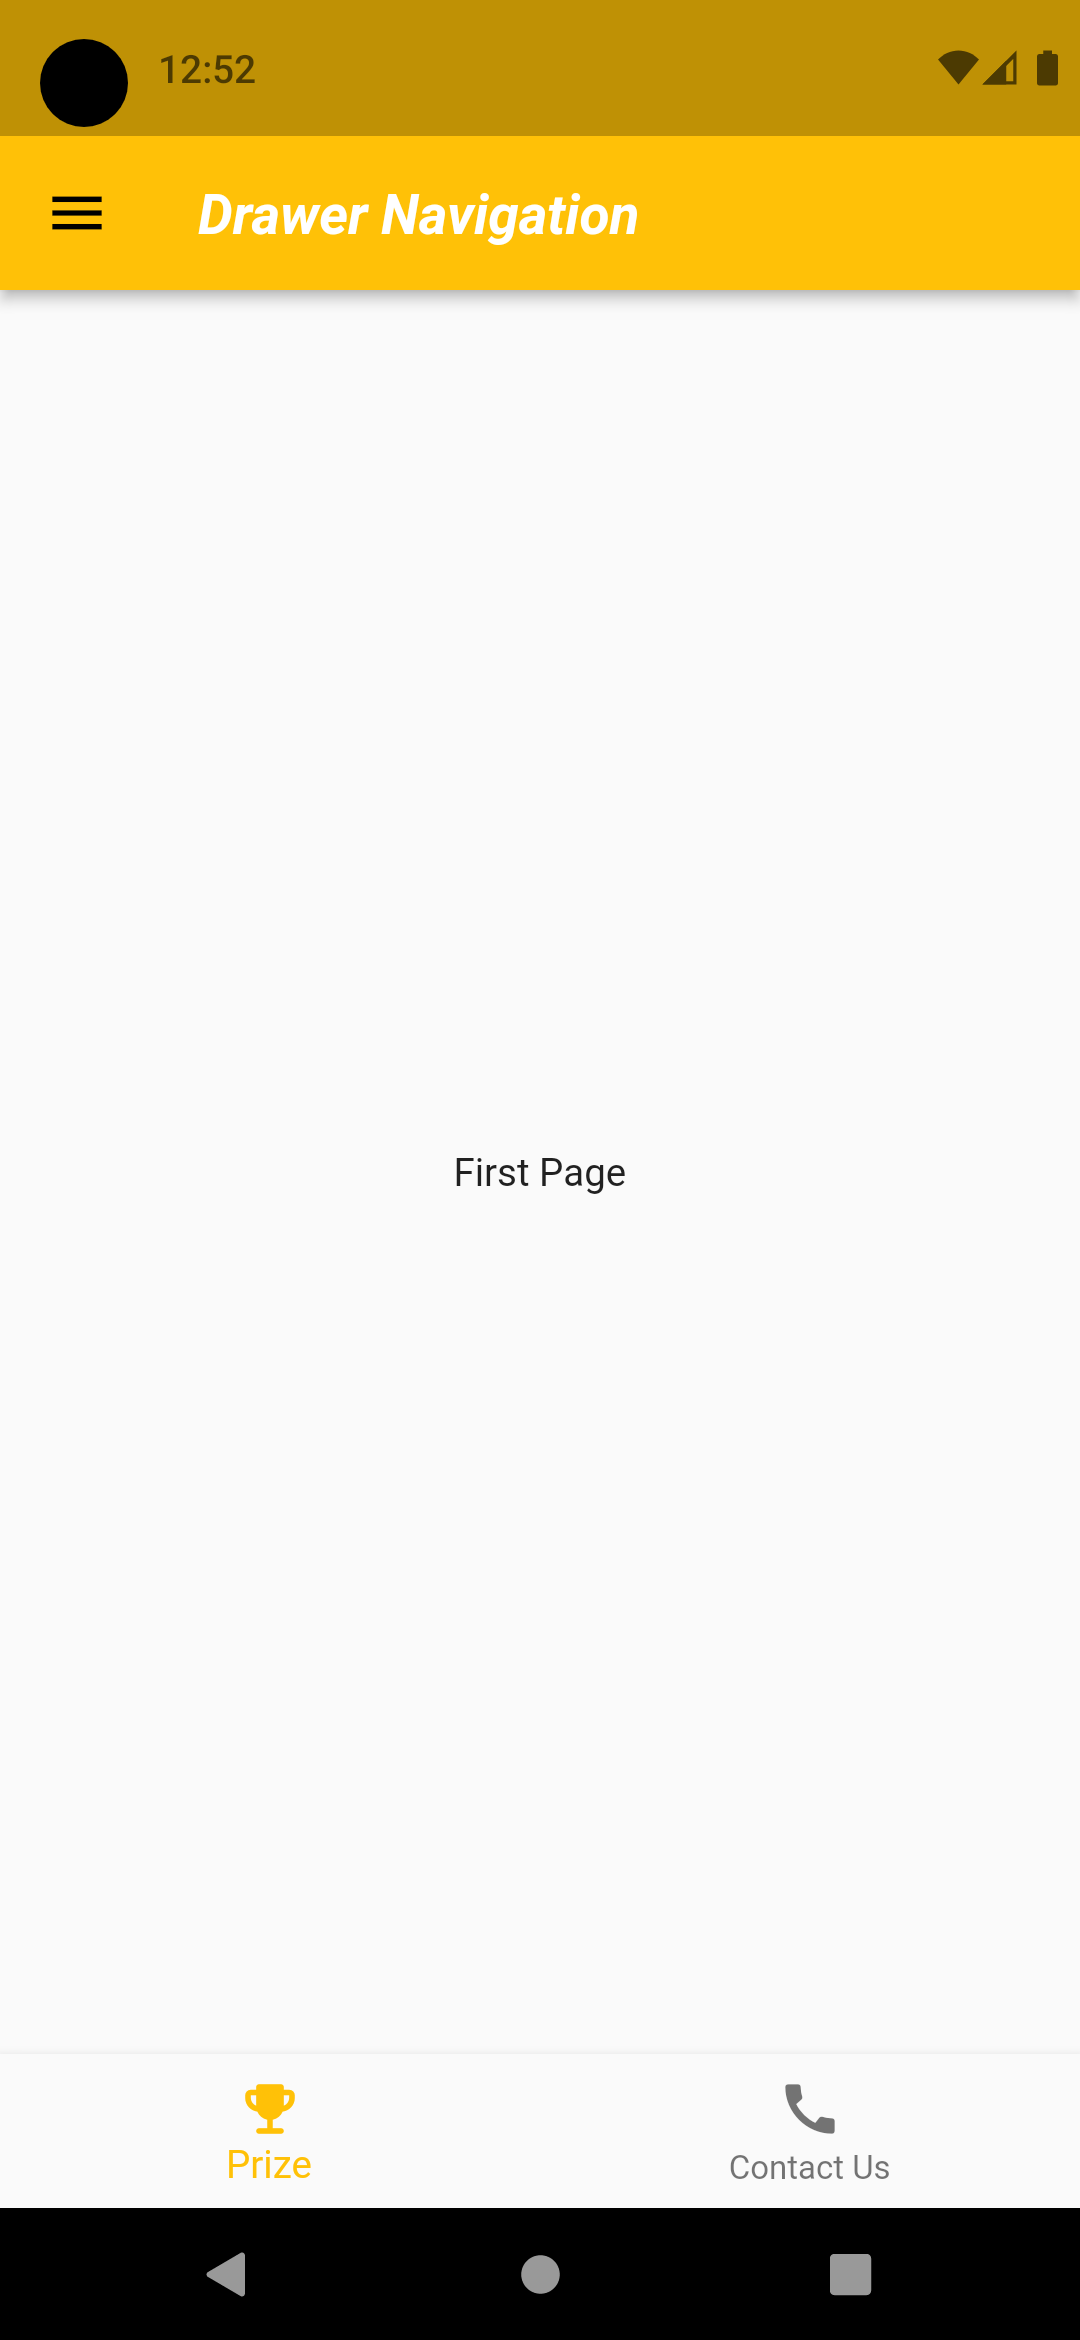
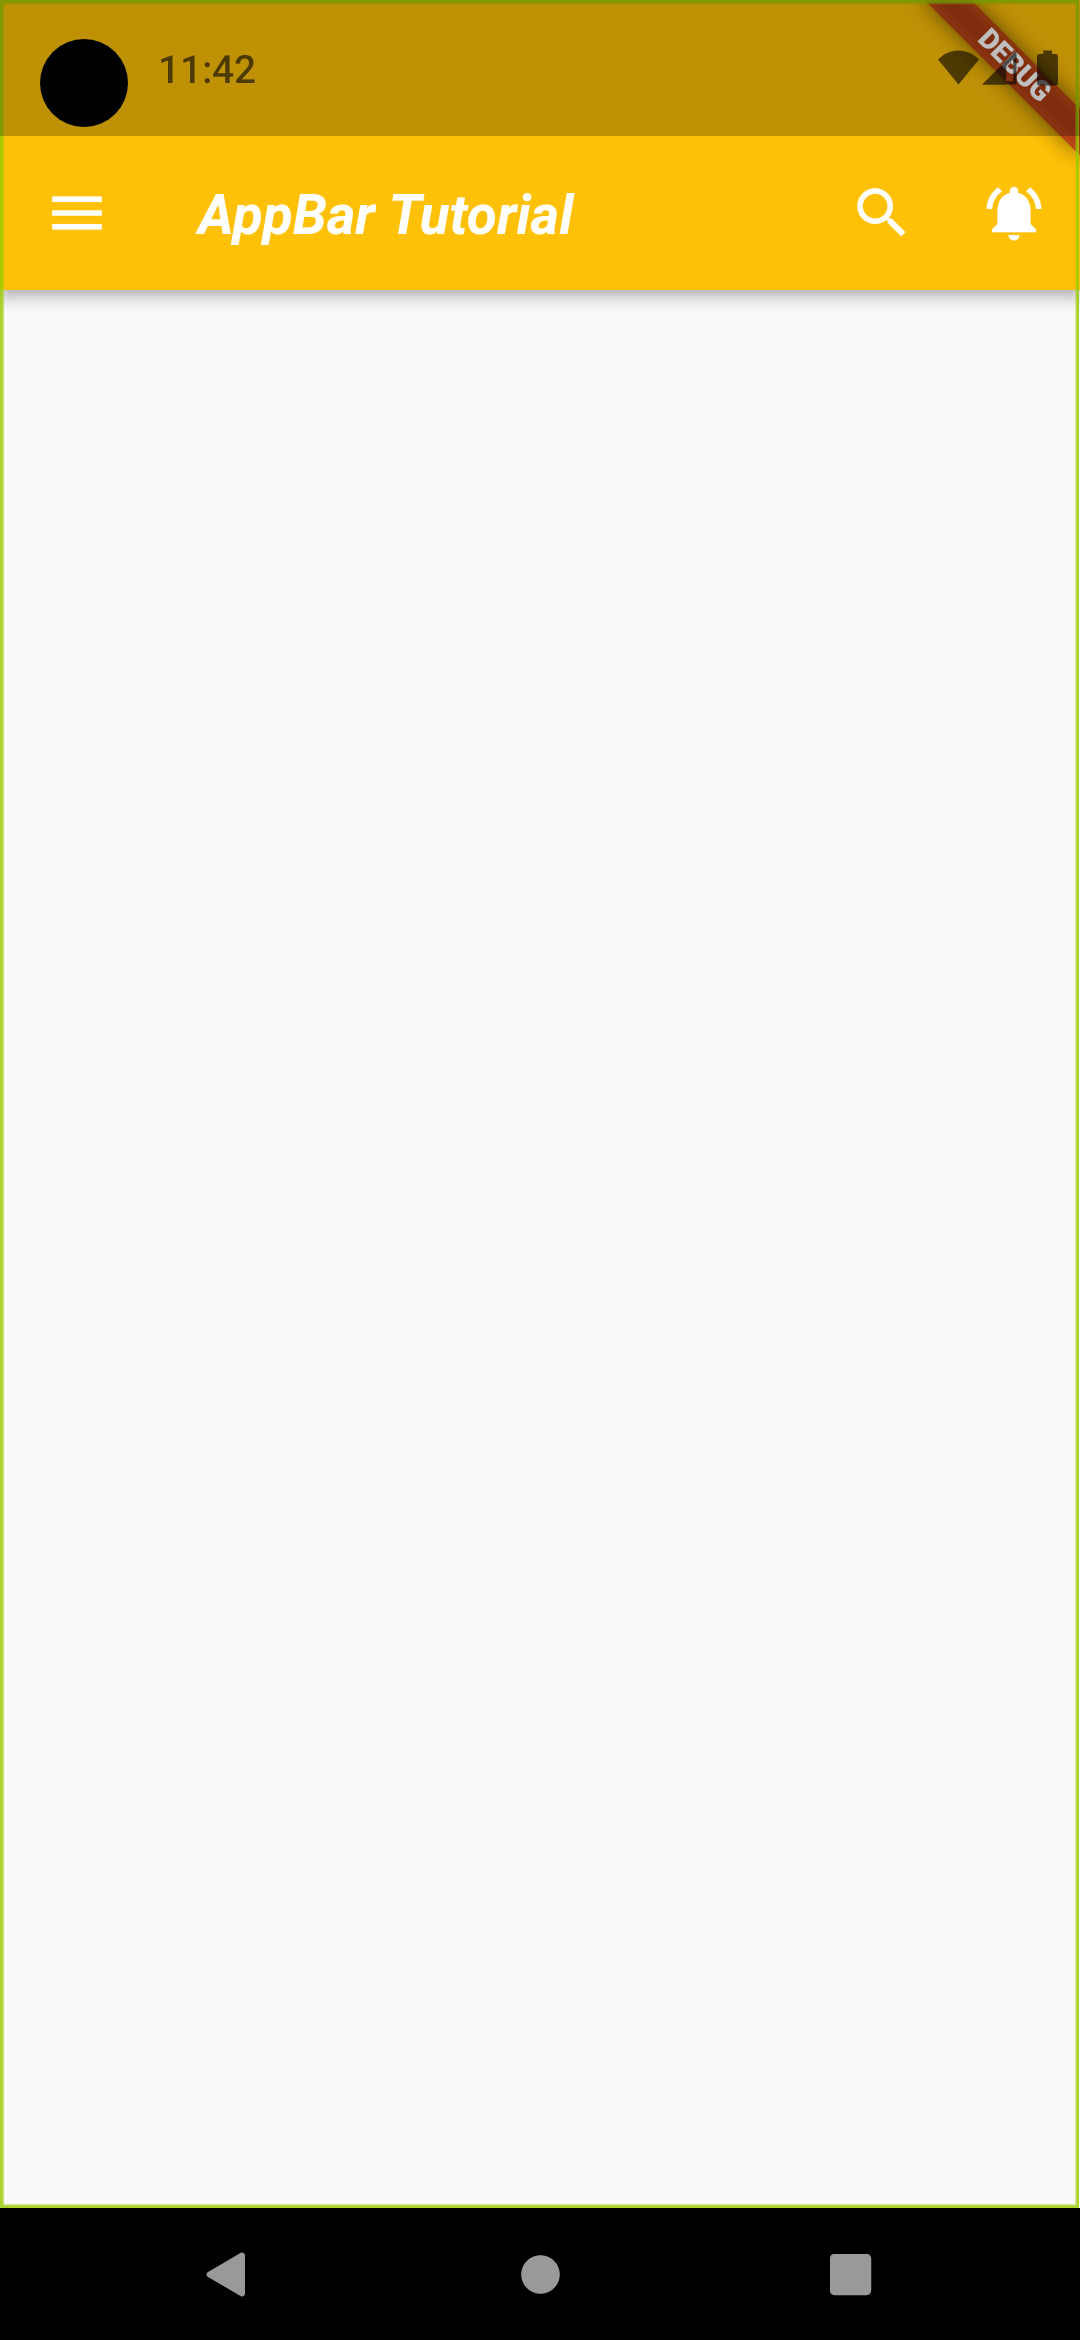
AppBar Functions

diff --git a/lib/main.dart b/lib/main.dart
@@ -1,52 +1,42 @@
 import 'package:flutter/material.dart';
-import 'package:flutter_dev_practice/screens/bottom_navBar.dart';
-import 'package:flutter_dev_practice/screens/create_drawer.dart';
-import 'package:flutter_dev_practice/screens/sample_pages.dart';
 
 void main() {
   runApp(
-    MainApp(),
+    HomeScreen(),
   );
 }
 
-class MainApp extends StatelessWidget {
+class HomeScreen extends StatelessWidget {
   @override
   Widget build(BuildContext context) {
     return MaterialApp(
-      debugShowCheckedModeBanner: false,
-      title: "Drawer Application",
-      home: DrawerApplication(),
-      theme: ThemeData(
-        primarySwatch: Colors.amber,
-      ),
-    );
-  }
-}
-
-class DrawerApplication extends StatefulWidget {
-  @override
-  _DrawerApplicationState createState() => _DrawerApplicationState();
-}
-
-class _DrawerApplicationState extends State<DrawerApplication> {
-  @override
-  Widget build(BuildContext context) {
-    return Scaffold(
-      appBar: AppBar(
-        title: Text(
-          "Drawer Navigation",
-          style: TextStyle(
-            fontStyle: FontStyle.italic,
-            fontWeight: FontWeight.bold,
-            color: Colors.white,
+      title: "AppBar Tut",
+      home: Scaffold(
+        appBar: AppBar(
+          backgroundColor: Colors.amber,
+          title: Text(
+            "AppBar Tutorial",
+            style: TextStyle(
+              fontWeight: FontWeight.bold,
+              fontStyle: FontStyle.italic,
+            ),
           ),
+          leading: IconButton(
+            onPressed: () {},
+            icon: Icon(Icons.menu),
+          ),
+          actions: [
+            IconButton(
+              onPressed: () {},
+              icon: Icon(Icons.search),
+            ),
+            IconButton(
+              onPressed: () {},
+              icon: Icon(Icons.notifications_active),
+            )
+          ],
         ),
       ),
-      body: Center(
-        child: Text("First Page"),
-      ),
-      drawer: DrawerFunctions(),
-      bottomNavigationBar: BottomNavigation(),
     );
   }
 }

diff --git a/README.md b/README.md
@@ -1,19 +1,5 @@
 ## Concepts :
-### --> Drawer, Theme.of(context).primaryColor, width: double.infinity
-### --> decoration, BoxDecoration, BoxShape, DecorationImage, NetworkImage
-### --> ListTile, MaterialPageRoute, Navigator.(Push and pop)
-
-<img src="ss1.png"  width="320" height="480" title="hover text">
-
-
-<img src="ss2.png"  width="320" height="480" title="hover text">
-
-
-<img src="ss3.png"  width="320" height="480" title="hover text">
-
-
-<img src="ss4.png"  width="320" height="480" title="hover text">
-
-
-<img src="s5.png"  width="320" height="480" title="hover text">
-
+### --> AppBar
+<p align="center">
+<img src="ss1.png"   width="320" height="480" title="hover text">
+</p>
